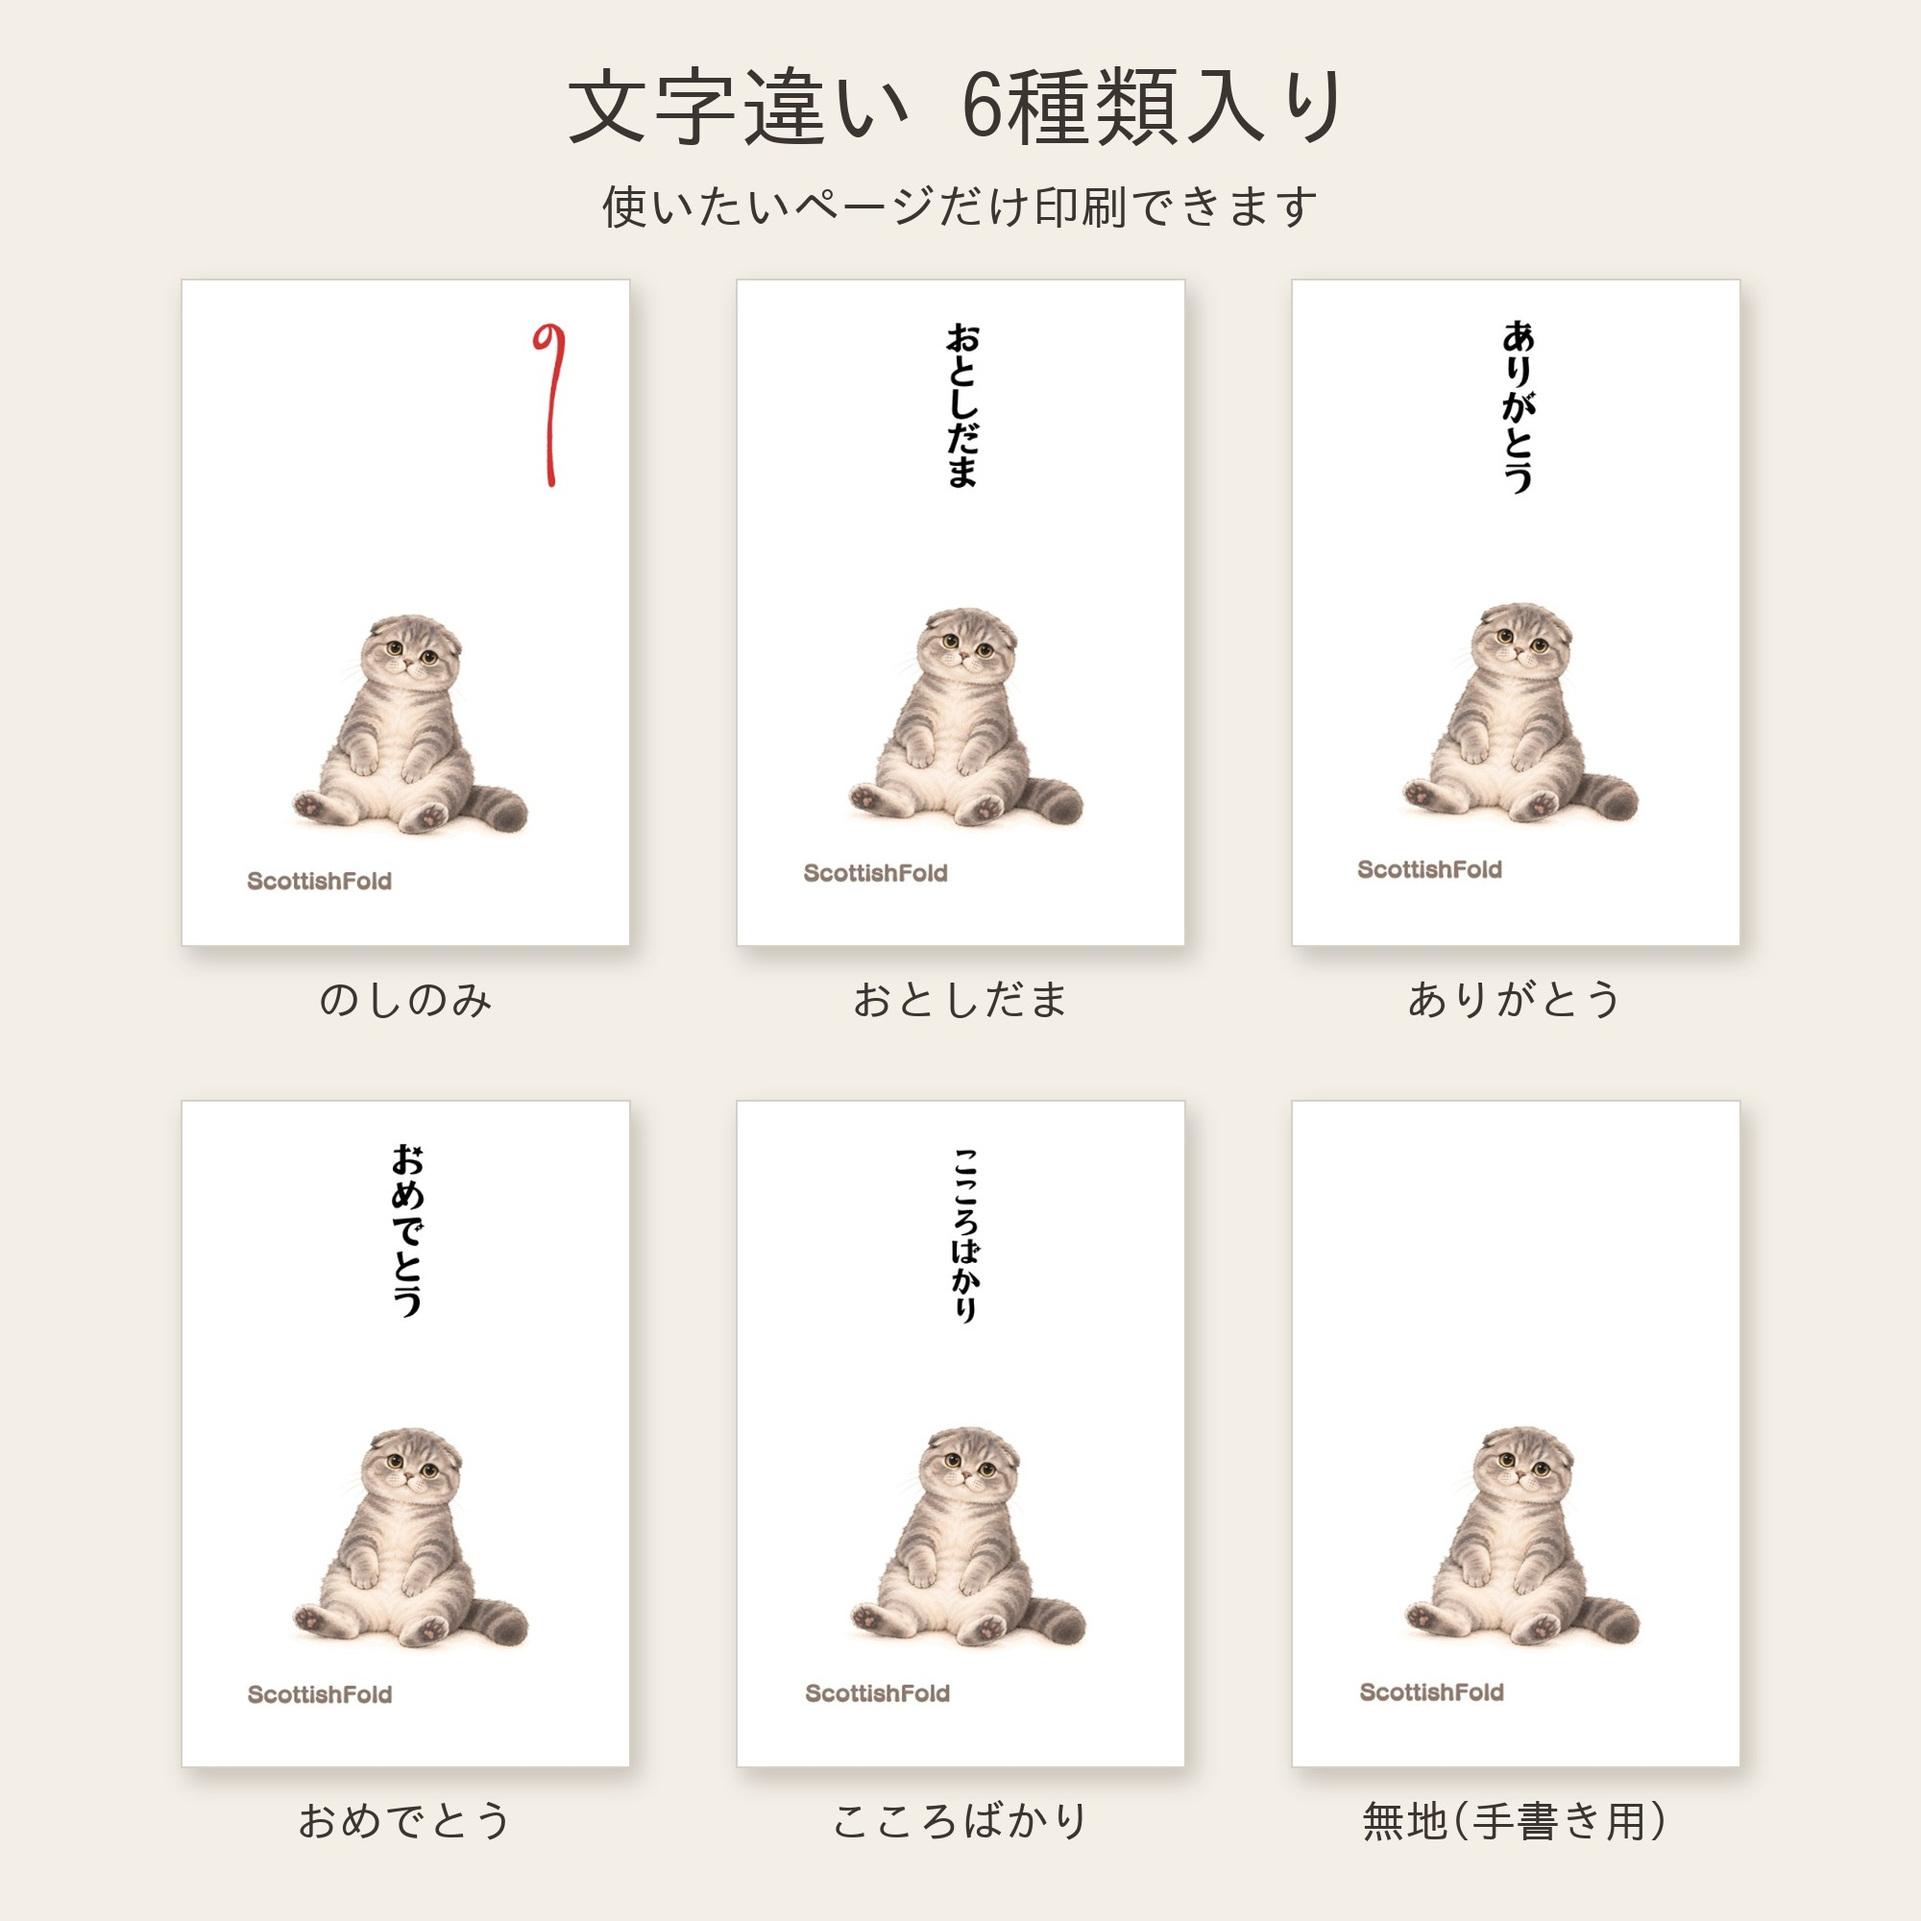
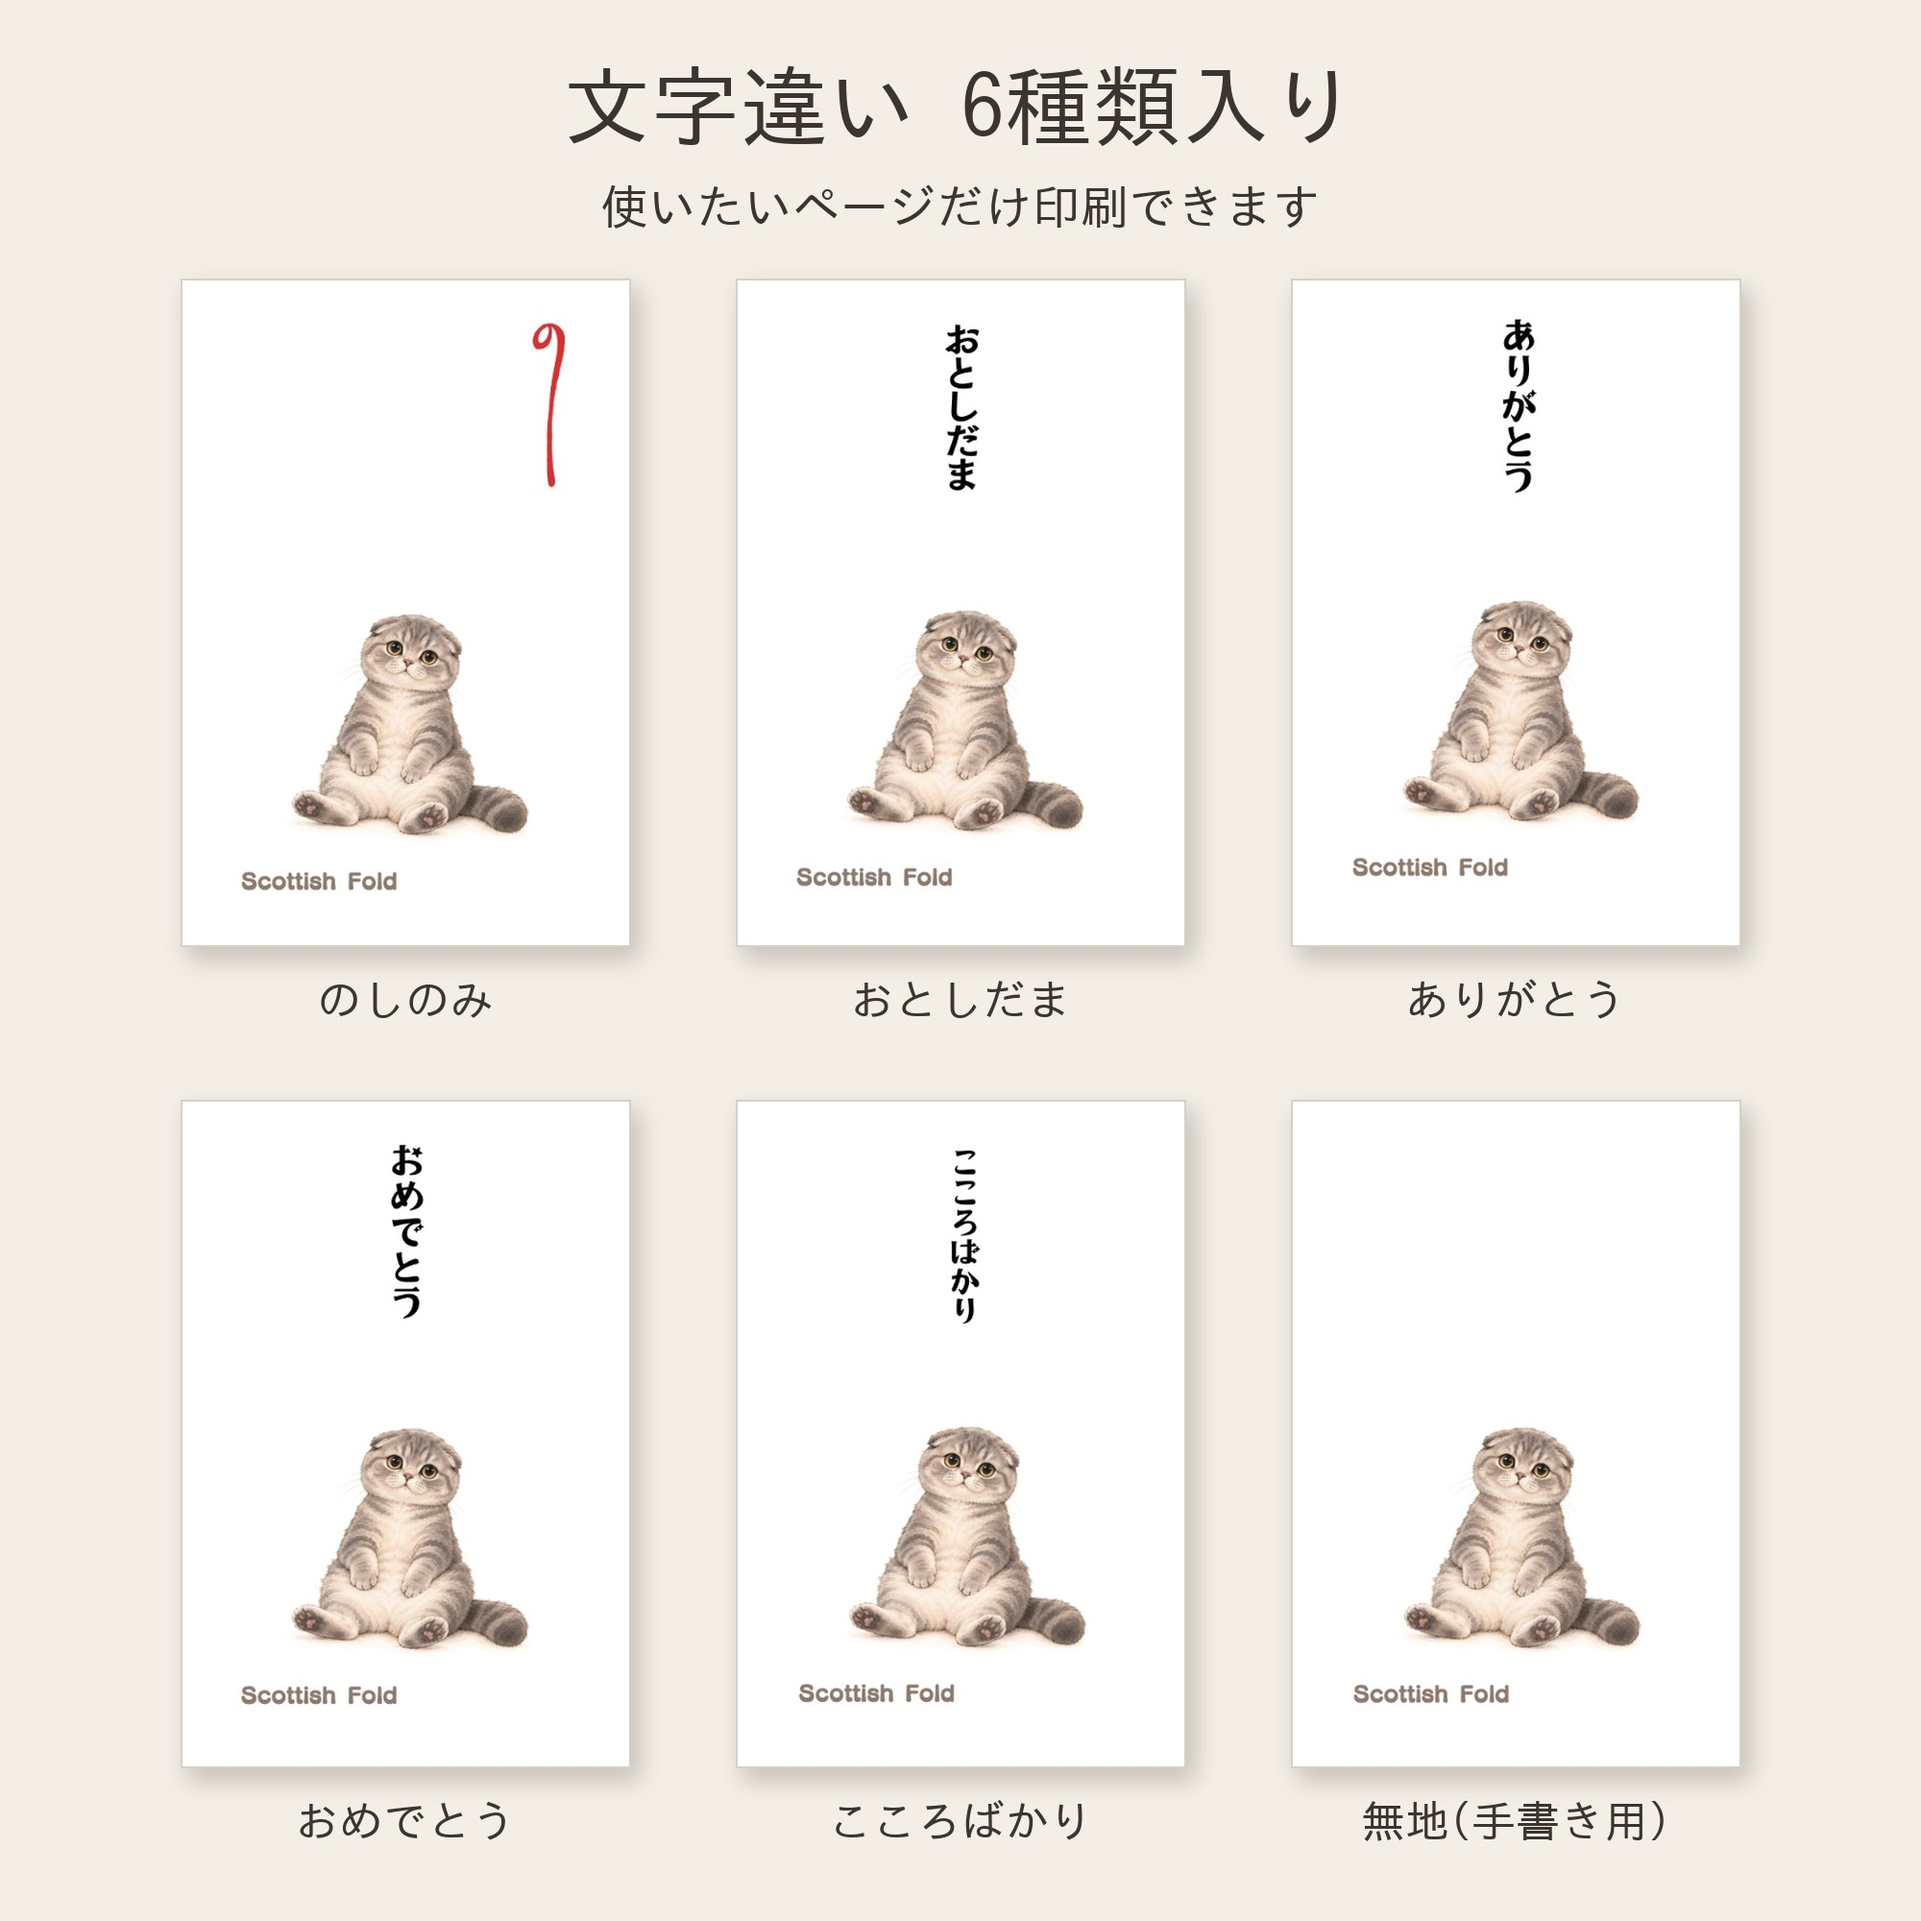
スコティッシュフォールドの6種類の画像を、名前を直したページで作り直した
Claude-Session: https://claude.ai/code/session_017Q7oY74jx7snH393ipSzN7

diff --git a/docs/minne-pochi-listing-cat-scottish.md b/docs/minne-pochi-listing-cat-scottish.md
@@ -78,7 +78,7 @@
 - 絵は折れ耳、シルバータビー(灰色のしま)。立ち耳のスコの要望があれば、別の出品にする
 - タグの2つ目に「スコ」を入れた
 - 絵は作り直した版(ふつうの体つき、まんまるの目で「なあに?」の顔)。説明文の「おじさんのように」「くつろぎきった顔」を、絵に合わせて「ちょこんと座る」「まんまるの目で『なあに?』」に直した
-- 袋の名前はユーザーが「Scottish Fold」(空白あり)に直した(81〜85.jpg)。おめでとうのページは、右の袋の名前の位置が左とずれている(ユーザーに伝えた)
+- 袋の名前はユーザーが「Scottish Fold」(空白あり)に直した(81〜85.jpg)。おめでとうのページの右の袋の名前のずれも、ユーザーが直した
 - 袋の名前の色は灰色がかった茶色。白い紙の上で読める
 - 絵のタッチが写実的で、墨の線がほとんどない(ブリティッシュと同じ)
 
@@ -99,7 +99,7 @@ uchinoko-aruaru_scottishfold_pochi.zip
 
 ## 商品画像
 1. shop/listing_scottish_1.jpg(デザイン見本)
-2. shop/listing_scottish_3.jpg(6種類。直したこころばかりが届いたら作り直す: `python3 shop/make_scottish_images.py <こころばかり>`。いまの画像は空白なしの古い版)
+2. shop/listing_scottish_3.jpg(6種類。`python3 shop/make_scottish_images.py 86.jpg` で作った。名前は空白ありの版)
 3. shop/listing_shiba_4.jpg(作り方)
 4. shop/scene_scottish_1_note.jpg(場面写真。注記なしは scene_scottish_1.jpg。名前を直した無地のページ 81.jpg で作り直した)
 
